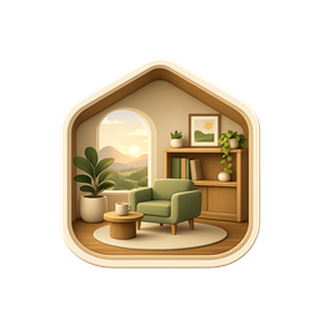
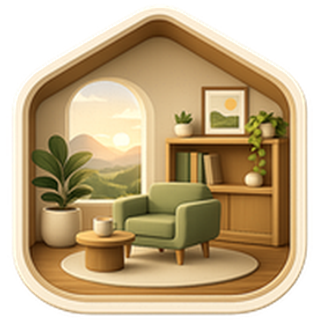
Theme/UI polish: opacity, hue-aware glow, admin display, scrollbars, login
- settings.js _applyTheme: opacity 100% now truly solid
  (final_alpha = designed + (1-designed) * solidity). Opacity slider is
  disabled in Default theme since it has no effect there anyway.
- Body halo gradient tracks theme hue in both themes via
  --body-bg-core/-mid/-far set on document.body from the current hue +
  a clamped saturation. No more green glow on a purple theme.
- labels.js: keep the admin_ prefix in itemDisplayName so superadmin-
  only items read as 'Admin Girl Blue Dress' in the catalog + selected
  panel — a visible reminder of which tier the item belongs to.
- Modern thin floating scrollbars on drawers (catalog, inventory,
  settings, bg picker): 6px, transparent track, semi-opaque thumb.
- Delete confirm explicitly says 'will be deleted from the server
  (moved to the Deleted/ folder — you can restore manually)'.
- Login page: icon 2x bigger (160px) and 'Places' heading + subtitle
  centered. Favicon PNG cropped to its non-transparent bbox and re-
  squared so it fills more of the browser tab (~33% tighter).

diff --git a/js/settings.js b/js/settings.js
@@ -110,37 +110,55 @@ function _applyTheme() {
   const s = p.saturation || 100;
   const b = p.brightness / 100;
   const c = (p.contrast || 100) / 100;
-  const o = p.opacity / 100;
+  // `solidity` is the opacity slider reinterpreted so that 100% genuinely
+  // means fully opaque. At 0% the panel uses its designed glass alphas;
+  // at intermediate values we lerp between designed-alpha and 1.
+  //   final_alpha = designed + (1 - designed) * solidity
+  // so 100% -> 1.0 (solid), regardless of per-element designed values.
+  const solidity = p.opacity / 100;
+  const opacify = (a) => a + (1 - a) * solidity;
 
-  // Accent color from hue + saturation
+  // Accent tracks hue + saturation in every theme.
   frame.style.setProperty("--accent", `hsl(${h}, ${Math.round(s * 0.7)}%, 60%)`);
+
+  // Body halo (the glow behind the phone frame on desktop) tracks hue in
+  // every theme so nothing stays green on purple, etc. Set on the body
+  // because .app-body is the element that paints the gradient.
+  const glowSat = Math.max(8, Math.round(s * 0.22));
+  document.body.style.setProperty("--body-bg-core", `hsl(${h}, ${glowSat}%, 17%)`);
+  document.body.style.setProperty("--body-bg-mid",  `hsl(${h}, ${Math.round(glowSat * 0.7)}%, 10%)`);
+  document.body.style.setProperty("--body-bg-far",  `hsl(${h}, ${Math.round(glowSat * 0.4)}%, 5%)`);
 
   if (isGlass) {
     const sat = Math.round(s * 0.3);
     const satHi = Math.round(s * 0.4);
     const satLo = Math.round(s * 0.2);
-    // Contrast scales lightness spread: high contrast → darker darks, lighter lights
     const cl = (base) => Math.min(100, Math.max(0, Math.round((base - 10) * c + 10) * b));
-    const bg = (l, a) => `hsla(${h}, ${sat}%, ${cl(l)}%, ${a * o})`;
-    frame.style.setProperty("--bg-panel", bg(8, 0.7));
-    frame.style.setProperty("--bg-nav", bg(5, 0.75));
+    const bg = (l, a) => `hsla(${h}, ${sat}%, ${cl(l)}%, ${opacify(a)})`;
+    frame.style.setProperty("--bg-panel",   bg(8,  0.7));
+    frame.style.setProperty("--bg-nav",     bg(5,  0.75));
     frame.style.setProperty("--bg-surface", bg(11, 0.75));
-    frame.style.setProperty("--bg-card", bg(16, 0.55));
-    frame.style.setProperty("--bg-input", bg(6, 0.65));
+    frame.style.setProperty("--bg-card",    bg(16, 0.55));
+    frame.style.setProperty("--bg-input",   bg(6,  0.65));
     const borderL = Math.min(100, Math.round(50 * c));
-    frame.style.setProperty("--border", `hsla(${h}, ${satHi}%, ${borderL}%, ${0.25 * o})`);
-    frame.style.setProperty("--border-accent", `hsla(${h}, ${satHi}%, ${Math.min(100, borderL + 5)}%, ${0.35 * o})`);
-    frame.style.setProperty("--btn-bg", `hsla(${h}, ${satLo}%, 90%, ${0.06 * o * c})`);
-    frame.style.setProperty("--btn-hover", `hsla(${h}, ${satLo}%, 90%, ${0.1 * o * c})`);
-    frame.style.setProperty("--frame-border", `hsla(${h}, ${satHi}%, ${borderL}%, ${0.3 * o})`);
-    // Opaque version for scene divider (no green bleed-through)
-    frame.style.setProperty("--scene-border", `hsl(${h}, ${sat}%, ${cl(8)}%)`);
+    frame.style.setProperty("--border",        `hsla(${h}, ${satHi}%, ${borderL}%, ${opacify(0.25)})`);
+    frame.style.setProperty("--border-accent", `hsla(${h}, ${satHi}%, ${Math.min(100, borderL + 5)}%, ${opacify(0.35)})`);
+    frame.style.setProperty("--btn-bg",        `hsla(${h}, ${satLo}%, 90%, ${opacify(0.06 * c)})`);
+    frame.style.setProperty("--btn-hover",     `hsla(${h}, ${satLo}%, 90%, ${opacify(0.10 * c)})`);
+    frame.style.setProperty("--frame-border",  `hsla(${h}, ${satHi}%, ${borderL}%, ${opacify(0.30)})`);
+    frame.style.setProperty("--scene-border",  `hsl(${h}, ${sat}%, ${cl(8)}%)`);
   } else {
-    // Default theme — reset inline styles so :root vars take effect
+    // Default theme is always fully solid. Reset inline styles so :root
+    // vars take effect, and visually disable the opacity slider.
     const vars = ["--bg-panel","--bg-nav","--bg-surface","--bg-card","--bg-input",
       "--border","--border-accent","--btn-bg","--btn-hover","--frame-border","--scene-border"];
     vars.forEach((v) => frame.style.removeProperty(v));
   }
+
+  // The opacity slider only has an effect in Glass theme; disable it in
+  // Default so the UI makes it obvious moving it does nothing.
+  const opacitySlider = document.getElementById("theme-opacity");
+  if (opacitySlider) opacitySlider.disabled = !isGlass;
 }
 
 function _persistPrefs() {

diff --git a/css/style.css b/css/style.css
@@ -16,6 +16,11 @@
   --btn-hover: #25282e;
   --frame-border: #1a1c20;
   --panel-bg-extra: none;
+  /* Desktop body halo that sits behind the phone frame. Overridden per
+     theme to track the user's hue slider. Defaults to the original greens. */
+  --body-bg-core: #2a3a2a;
+  --body-bg-mid:  #1a221a;
+  --body-bg-far:  #0d0f12;
 }
 
 /* ---------- Glass theme ---------- */
@@ -114,8 +119,46 @@ input, textarea, [contenteditable] {
   border-radius: 12px;
   box-shadow: 0 10px 40px rgba(0,0,0,0.4);
 }
-.login-card h1 { margin: 0 0 4px 0; font-size: 28px; letter-spacing: 2px; }
-.login-icon { display: block; width: 80px; height: 80px; margin: 0 auto 12px; object-fit: contain; }
+.login-card h1 { margin: 0 0 4px 0; font-size: 28px; letter-spacing: 2px; text-align: center; }
+.login-card > .muted { text-align: center; }
+.login-icon { display: block; width: 160px; height: 160px; margin: 0 auto 12px; object-fit: contain; }
+
+/* Modern thin floating-looking scrollbars for the panels that scroll.
+   Works on Firefox (scrollbar-width/color) and Chromium (::-webkit-*).
+   Transparent track keeps the "floating" illusion. */
+.drawer-grid,
+.inventory-list,
+.settings-body,
+.bg-list,
+.scene-inner,
+.catalog-list {
+  scrollbar-width: thin;
+  scrollbar-color: rgba(255, 255, 255, 0.3) transparent;
+}
+.drawer-grid::-webkit-scrollbar,
+.inventory-list::-webkit-scrollbar,
+.settings-body::-webkit-scrollbar,
+.bg-list::-webkit-scrollbar {
+  width: 6px;
+  height: 6px;
+}
+.drawer-grid::-webkit-scrollbar-track,
+.inventory-list::-webkit-scrollbar-track,
+.settings-body::-webkit-scrollbar-track,
+.bg-list::-webkit-scrollbar-track { background: transparent; }
+.drawer-grid::-webkit-scrollbar-thumb,
+.inventory-list::-webkit-scrollbar-thumb,
+.settings-body::-webkit-scrollbar-thumb,
+.bg-list::-webkit-scrollbar-thumb {
+  background: rgba(255, 255, 255, 0.3);
+  border-radius: 3px;
+}
+.drawer-grid::-webkit-scrollbar-thumb:hover,
+.inventory-list::-webkit-scrollbar-thumb:hover,
+.settings-body::-webkit-scrollbar-thumb:hover,
+.bg-list::-webkit-scrollbar-thumb:hover {
+  background: rgba(255, 255, 255, 0.5);
+}
 .login-form { display: flex; flex-direction: column; gap: 12px; margin-top: 12px; }
 .login-form label { display: flex; flex-direction: column; gap: 4px; font-size: 14px; }
 .login-form button {
@@ -143,7 +186,10 @@ code { background: #15171a; padding: 1px 5px; border-radius: 4px; font-size: 12p
   align-items: center;
   justify-content: center;
   background:
-    radial-gradient(ellipse at center, #2a3a2a 0%, #1a221a 50%, #0d0f12 100%);
+    radial-gradient(ellipse at center,
+      var(--body-bg-core) 0%,
+      var(--body-bg-mid)  50%,
+      var(--body-bg-far)  100%);
 }
 
 .phone-frame {

diff --git a/js/labels.js b/js/labels.js
@@ -10,13 +10,11 @@ export function toLabel(key) {
 
 
 // Item display name:
-//   - Drop leading `admin_` prefix (admin-only items are displayed to admins
-//     without exposing the access marker in the UI).
-//   - Drop trailing `_<digits>` suffix (admin_girl_blue_dress_2 -> "Girl Blue Dress").
-//   - Title Case. Multiple files can share the same display name; that's fine.
+//   - Drop trailing `_<digits>` suffix (bush_2 -> "Bush").
+//   - Title Case. The `admin_` prefix is KEPT so superadmin-only items
+//     display as "Admin Girl Blue Dress" — a visible reminder that it's
+//     the restricted-tier content (only superadmins ever see these).
 export function itemDisplayName(rawName) {
-  const stripped = (rawName || "")
-    .replace(/^admin_/, "")
-    .replace(/_\d+$/, "");
+  const stripped = (rawName || "").replace(/_\d+$/, "");
   return toLabel(stripped);
 }

diff --git a/js/catalog.js b/js/catalog.js
@@ -127,7 +127,10 @@ function _buildItemCard(item) {
     del.textContent = "×"; // ×
     del.addEventListener("click", async (e) => {
       e.stopPropagation(); // don't also fire the card's tap-to-add
-      if (!window.confirm(`Delete "${itemDisplayName(item.name)}" from the catalog?`)) return;
+      const warn =
+        `"${itemDisplayName(item.name)}" will be deleted from the server ` +
+        `(moved to the Deleted/ folder — you can restore manually). Continue?`;
+      if (!window.confirm(warn)) return;
       try {
         await api.deleteCatalogItem(item.url);
         // Full refresh so filters + tiles reflect the removal.
